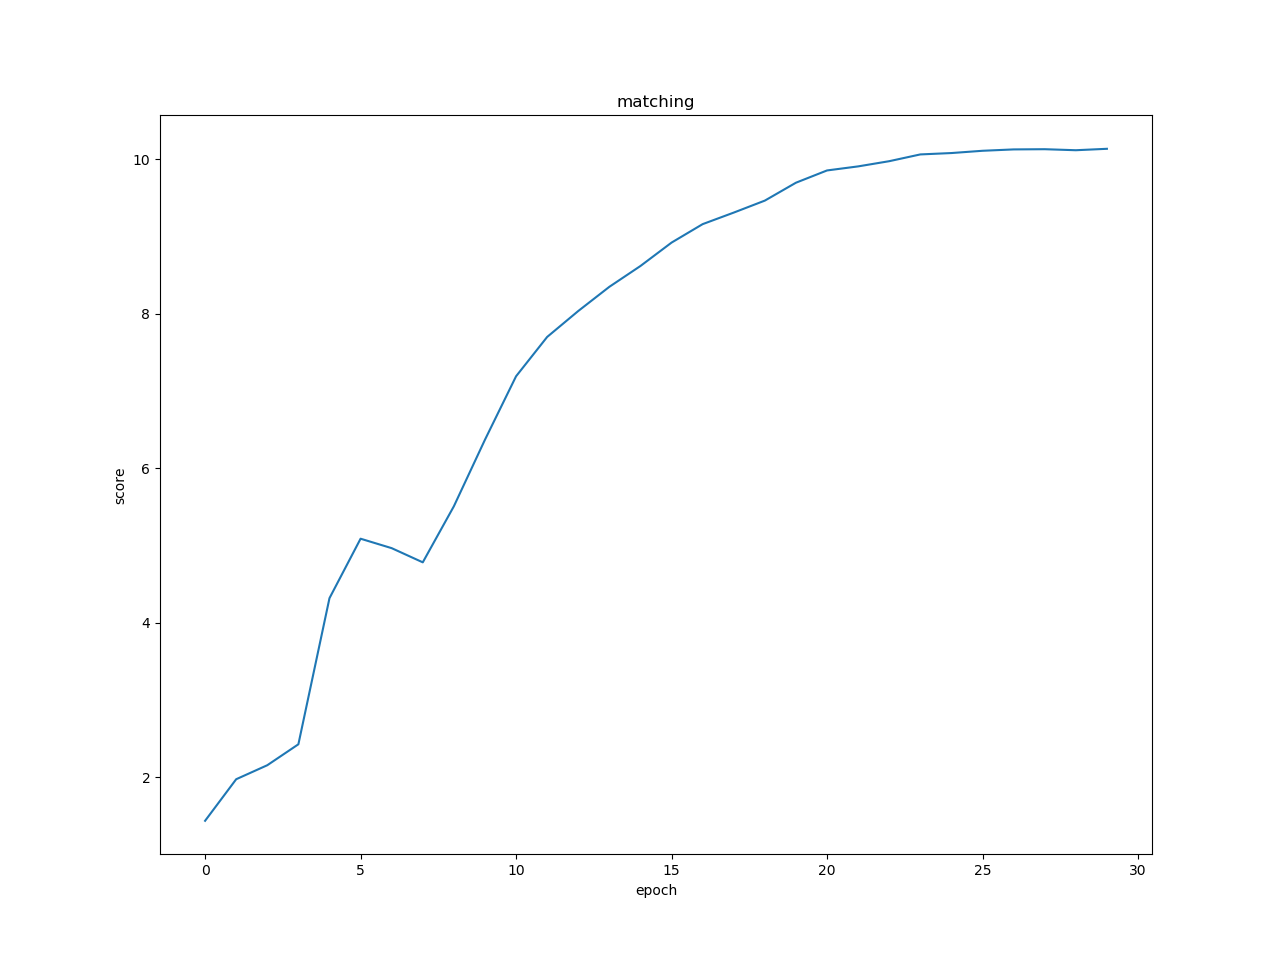
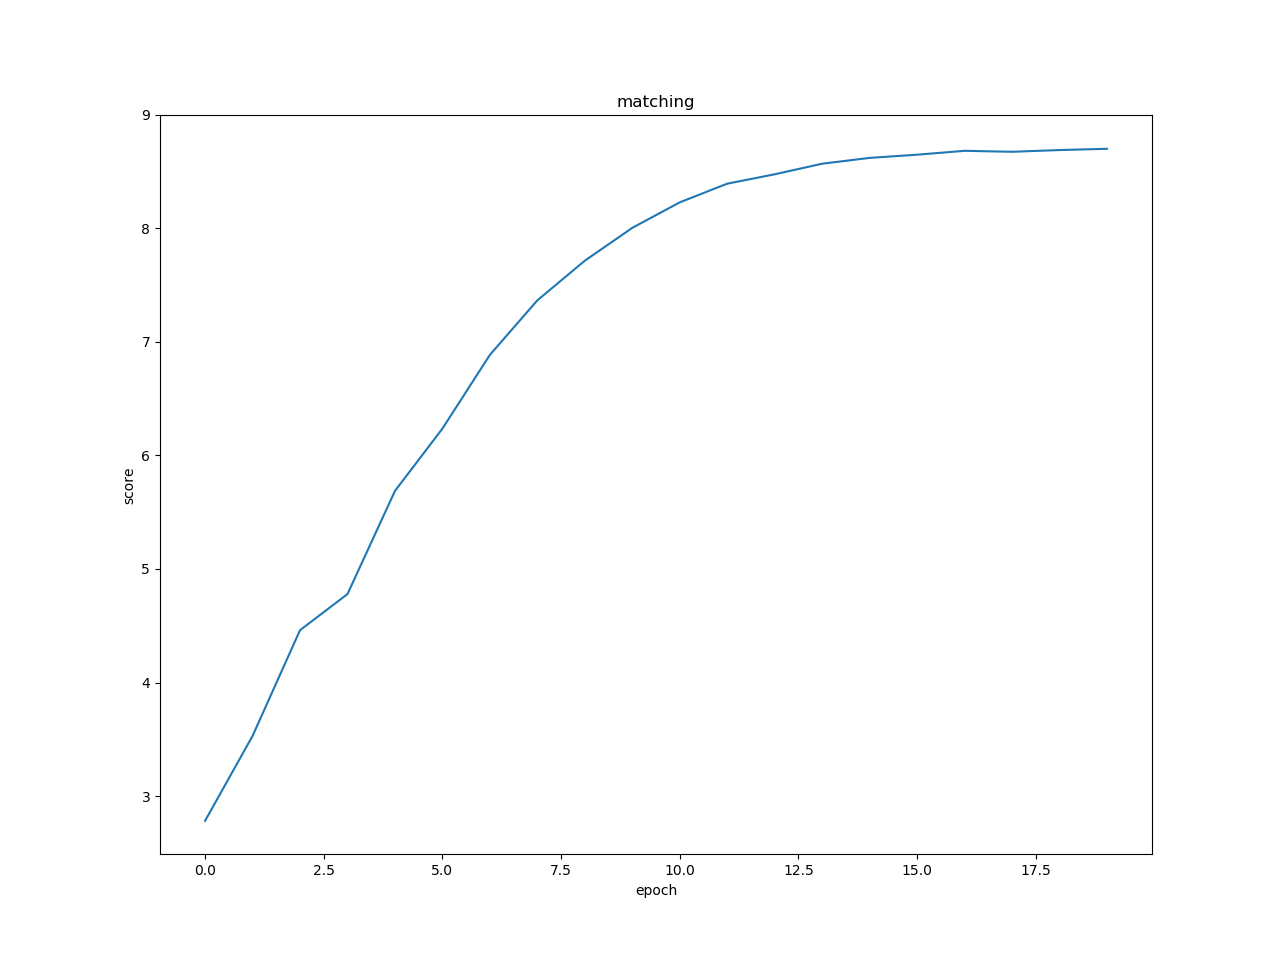
sixteenth commit
change of codes.

diff --git a/model.py b/model.py
@@ -22,10 +22,10 @@ sigma = 2
 heatmap_size = 64
 
 # heatmap augmentation parameters
-flip = 0
-rotate = 0
-scale = 1
-translate = 0
+flip = 0.5
+rotate = 10
+scale = 0.8
+translate = 10
 
 # size of text encoding
 sentence_vector_size = 300
@@ -48,8 +48,6 @@ d_final_size = convolution_channel_d[0]
 x_grid = np.repeat(np.array([range(heatmap_size)]), heatmap_size, axis=0)
 y_grid = np.repeat(np.array([range(heatmap_size)]).transpose(), heatmap_size, axis=1)
 empty = np.zeros([heatmap_size, heatmap_size], dtype='float32')
-testmap = np.array([np.exp(-((x_grid - 3 * i) ** 2 + (y_grid - 3 * i) ** 2) / sigma ** 2, dtype='float32') for i in
-                    range(total_keypoints)])
 
 # to decide whether a keypoint is in the heatmap
 heatmap_threshold = 0.5
@@ -58,7 +56,7 @@ heatmap_threshold = 0.5
 keypoint_threshold = 8
 
 
-# return ground truth heat map of a training image (fixed-sized square-shaped, augmented)
+# return ground truth heatmap of a training image (fixed-sized square-shaped, augmented)
 def get_heatmap(keypoint):
     # heatmap size is (number of keypoints)*(bounding box height)*(bounding box width)
     x0, y0, w, h = tuple(keypoint.get('bbox'))
@@ -109,34 +107,29 @@ def get_heatmap(keypoint):
             heatmap[i] = np.exp(-((x_grid - x[i]) ** 2 + (y_grid - y[i]) ** 2) / sigma ** 2, dtype='float32')
         else:
             heatmap[i] = empty.copy()
-    # heatmap = testmap.copy()
 
     return heatmap
 
 
 # plot a heatmap
 def plot_heatmap(heatmap, skeleton=None, image_path=None, caption=None):
-    x_skeleton = np.empty((2, 0))
-    y_skeleton = np.empty((2, 0))
+    x_skeleton = np.empty((2, 0), dtype='int32')
+    y_skeleton = np.empty((2, 0), dtype='int32')
+
+    # locate the keypoints (the maximum of each channel)
+    keypoint = np.empty((2, total_keypoints), dtype='int32')
+    heatmap_max = np.amax(np.amax(heatmap, axis=1), axis=1)
+    keypoint[0] = np.argmax(np.amax(heatmap, axis=1), axis=1)
+    keypoint[1] = np.argmax(np.amax(heatmap, axis=2), axis=1)
 
     # option to plot skeleton
     if skeleton is not None:
         for line in skeleton:
-            if np.any(heatmap[line[0]] > heatmap_threshold) and np.any(heatmap[line[1]] > heatmap_threshold):
-                x_skeleton = np.hstack((x_skeleton, np.array([[0], [0]])))
-                y_skeleton = np.hstack((y_skeleton, np.array([[0], [0]])))
-
+            if (heatmap[(line,) + tuple(keypoint[::-1, line])] > heatmap_threshold).all():
                 # keypoint is located in the maximum of the heatmap
-                y_skeleton[0, -1], x_skeleton[0, -1] = np.unravel_index(np.argmax(heatmap[line[0]], axis=None),
-                                                                        heatmap[line[0]].shape)
-                y_skeleton[1, -1], x_skeleton[1, -1] = np.unravel_index(np.argmax(heatmap[line[1]], axis=None),
-                                                                        heatmap[line[1]].shape)
+                x_skeleton = np.hstack((x_skeleton, keypoint[0:1, line].transpose()))
+                y_skeleton = np.hstack((y_skeleton, keypoint[1:2, line].transpose()))
 
-    # locate the keypoints (the maximum of each channel)
-    keypoint = np.empty((2, total_keypoints))
-    heatmap_max = np.amax(np.amax(heatmap, axis=1), axis=1)
-    keypoint[0] = np.argmax(np.amax(heatmap, axis=1), axis=1)
-    keypoint[1] = np.argmax(np.amax(heatmap, axis=2), axis=1)
     keypoint = keypoint[:, heatmap_max > heatmap_threshold]
 
     # get a heatmap in single image
@@ -164,9 +157,7 @@ def plot_heatmap(heatmap, skeleton=None, image_path=None, caption=None):
 
 # get a batch of noise vectors
 def get_noise_tensor(number):
-    noise_tensor = torch.empty((number, noise_size, 1, 1), dtype=torch.float32)
-    for i in range(number):
-        noise_tensor[i] = torch.randn((noise_size, 1, 1), dtype=torch.float32)
+    noise_tensor = torch.randn((number, noise_size, 1, 1), dtype=torch.float32)
     return noise_tensor
 
 
@@ -182,28 +173,7 @@ class HeatmapDataset(torch.utils.data.Dataset):
 
         for image_id in image_ids:
             keypoint_ids = coco_keypoint.getAnnIds(imgIds=image_id)
-
-            # limit to single-person images
-            if single_person:
-                # only one person in the image
-                if len(keypoint_ids) == 1:
-                    keypoint = coco_keypoint.loadAnns(ids=keypoint_ids)[0]
-
-                    # with enough keypoints
-                    if keypoint.get('num_keypoints') > keypoint_threshold:
-                        caption_ids = coco_caption.getAnnIds(imgIds=image_id)
-                        captions = coco_caption.loadAnns(ids=caption_ids)
-                        data = {'keypoint': keypoint.copy(), 'caption': captions.copy(),
-                                'image': coco_keypoint.loadImgs(image_id)[0]}
-
-                        # add sentence encoding
-                        if text_model is not None:
-                            data['vector'] = [text_model.get_sentence_vector(caption.get('caption').replace('\n', ''))
-                                              for caption in captions]
-                        self.dataset.append(data)
-
-            # no person limit
-            else:
+            if (single_person and len(keypoint_ids) == 1) or (not single_person):
                 caption_ids = coco_caption.getAnnIds(imgIds=image_id)
                 captions = coco_caption.loadAnns(ids=caption_ids)
 

diff --git a/train.py b/train.py
@@ -9,13 +9,13 @@ device = torch.device('cuda:0' if torch.cuda.is_available() else 'cpu')
 
 # training parameters
 batch_size = 128
-learning_rate_g = 0.001
+learning_rate_g = 0.0005
 learning_rate_d = 0.0005
-rate_decay_g = 0.2
-rate_decay_d = 0.2
-rate_step_g = 4
-rate_step_d = 4
-epoch = 30
+rate_decay_g = 0.5
+rate_decay_d = 0.5
+rate_step_g = 1
+rate_step_d = 1
+epoch = 20
 real_label = (1, 1)
 fake_label = (0, 0)
 
@@ -31,7 +31,7 @@ coco_caption = COCO(caption_path)
 coco_keypoint = COCO(keypoint_path)
 
 # keypoint connections (skeleton) from annotation file
-skeleton = np.array(coco_keypoint.loadCats(coco_keypoint.getCatIds())[0].get('skeleton')) - 1
+skeleton = np.array(coco_keypoint.loadCats(coco_keypoint.getCatIds())[0].get('skeleton'), dtype='int32') - 1
 
 # load text encoding model
 # text_model = fastText.load_model(text_model_path)
@@ -52,11 +52,6 @@ criterion = nn.BCEWithLogitsLoss()
 scheduler_g = optim.lr_scheduler.StepLR(optimizer_g, step_size=rate_step_g, gamma=rate_decay_g)
 scheduler_d = optim.lr_scheduler.StepLR(optimizer_d, step_size=rate_step_d, gamma=rate_decay_d)
 
-batch_score_right = 0
-batch_score_wrong = 0
-batch_score_fake_before = 0
-batch_score_fake_after = 0
-batch_score_interpolated = 0
 epoch_score_right = []
 epoch_score_wrong = []
 epoch_score_fake_before = []
@@ -77,6 +72,9 @@ net_g.train()
 net_d.train()
 iteration = 1
 
+# number of batches
+batch_number = len(data_loader)
+
 for e in range(epoch):
     print('learning rate: g ' + str(optimizer_g.param_groups[0].get('lr')) + ' d ' + str(
         optimizer_d.param_groups[0].get('lr')))
@@ -85,9 +83,6 @@ for e in range(epoch):
     batch_score_fake_before = 0
     batch_score_fake_after = 0
     batch_score_interpolated = 0
-
-    # number of batches
-    batch_number = len(data_loader)
 
     for i, batch in enumerate(data_loader, 0):
         # get heatmaps, sentence vectors and noises
@@ -123,12 +118,9 @@ for e in range(epoch):
         heatmap_fake = net_g(noise)
 
         # discriminate heatmpap-text pairs
-        # score_wrong = net_d(heatmap_real, text_mismatch).view(-1)
         score_fake = net_d(heatmap_fake.detach()).view(-1)
 
         # calculate losses and update
-        # label.fill_(0)
-        # criterion(score_wrong, label).mul(0.5).backward()
         label.uniform_(*fake_label)
         loss_fake = criterion(score_fake, label)
         loss_fake.backward()
@@ -144,12 +136,15 @@ for e in range(epoch):
         if iteration == k:
             iteration = 0
 
+            # get noises
+            noise = get_noise_tensor(current_batch_size)
             noise = noise.to(device)
-            heatmap_fake = net_g(noise)
-            net_g.zero_grad()
 
             # generate heatmaps
+            heatmap_fake = net_g(noise)
             # heatmap_interpolated = net_g(noise2, text_interpolated)
+
+            net_g.zero_grad()
 
             # discriminate heatmpap-text pairs
             score_fake2 = net_d(heatmap_fake).view(-1)
@@ -195,8 +190,8 @@ for e in range(epoch):
     # epoch_score_interpolated.append(batch_score_interpolated / batch_number)
 
     # save models
-    torch.save(net_g.state_dict(), generator_path + '_' + str(e + 1))
-    torch.save(net_d.state_dict(), discriminator_path + '_' + str(e + 1))
+    torch.save(net_g.state_dict(), generator_path + '_' + f'{e + 1:03d}')
+    torch.save(net_d.state_dict(), discriminator_path + '_' + f'{e + 1:03d}')
 
     # plot and save generated samples from fixed noise
     net_g.eval()
@@ -213,7 +208,7 @@ for e in range(epoch):
         plt.subplot(4, 4, sample + 1)
         plot_heatmap(fixed_fake[sample], skeleton)
         plt.title(f'{1 / (1 + np.exp(-fixed_score[sample])):.3f}')
-    plt.savefig('fixed noise samples_' + f'{e + 1:02d}' + '.png')
+    plt.savefig('fixed_noise_samples_' + f'{e + 1:03d}' + '.png')
     plt.close()
 
     # save traces of scores

diff --git a/test.py b/test.py
@@ -21,24 +21,28 @@ skeleton = np.array(coco_keypoint.loadCats(coco_keypoint.getCatIds())[0]['skelet
 # get single-person image dataset
 dataset = HeatmapDataset(coco_keypoint, coco_caption)
 
-epoch = 3
+epoch = 2
 
 # try the GAN
-gan = GAN(generator_path + '_' + str(epoch), discriminator_path + '_' + str(epoch), device)
+gan = GAN(generator_path + '_' + f'{epoch:02d}', discriminator_path + '_' + f'{epoch:02d}', device)
 data = random.choice(dataset.dataset)
 heatmap = get_heatmap(data.get('keypoint'))
 file_name = data.get('image').get('file_name')
 caption = random.choice(data.get('caption')).get('caption')
 
 # plot a real heatmap
-plot_heatmap(heatmap, skeleton, caption)
+plt.figure()
+plot_heatmap(heatmap, skeleton, image_folder + file_name, caption)
 plt.title('(real) score = ' + str(1 / (1 + np.exp(-gan.discriminate(heatmap)))))
+plt.show()
 
 # plot some fake ones
 for i in range(24):
     fake = gan.generate()
+    plt.figure()
     plot_heatmap(fake, skeleton)
     plt.title('(fake) score = ' + str(1 / (1 + np.exp(-gan.discriminate(fake)))))
+    plt.show()
 
 # pick one fake
 noise = torch.randn(noise_size, dtype=torch.float32)
@@ -53,7 +57,11 @@ for data in dataset.dataset:
         nearest = data
 
 # plot the fake and the nearest neighbor
+plt.figure()
 plot_heatmap(fake, skeleton)
 plt.title('fake score = ' + str(1 / (1 + np.exp(-gan.discriminate(fake)))))
+plt.show()
+plt.figure()
 plot_heatmap(get_heatmap(nearest.get('keypoint')), skeleton)
 plt.title('nearest neighbor score = ' + str(1 / (1 + np.exp(-gan.discriminate(get_heatmap(nearest.get('keypoint')))))))
+plt.show()
